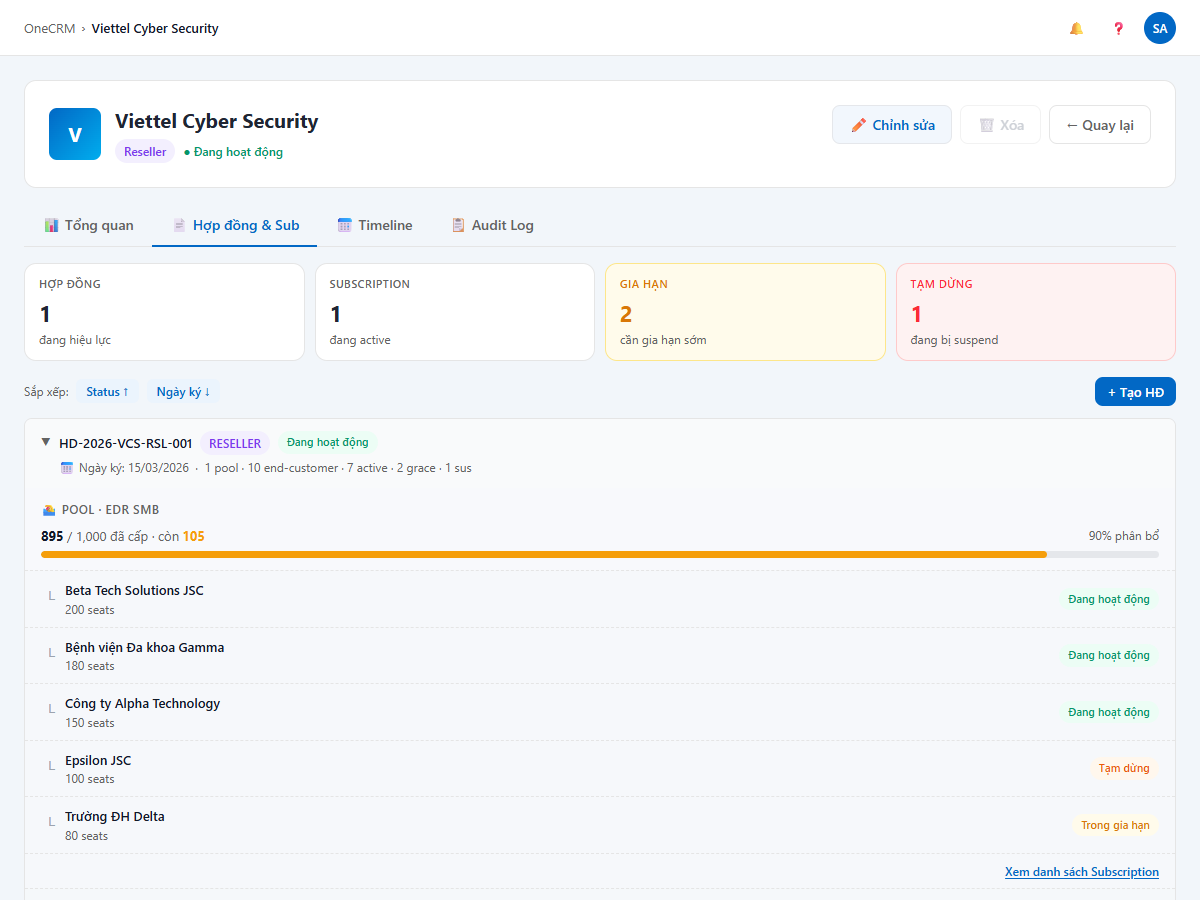
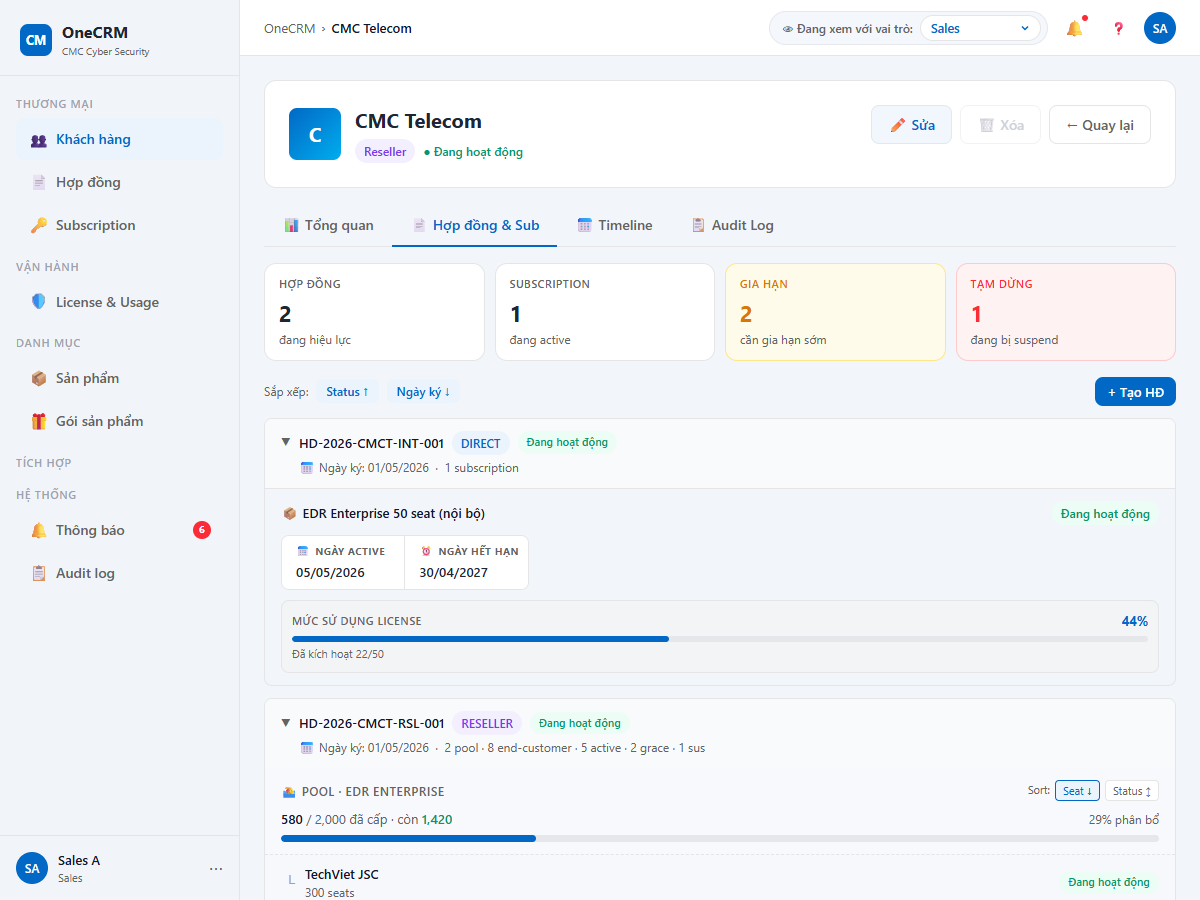
docs(demo): đồng bộ nút thao tác + chụp lại 16 ảnh giao diện
Demo v2.8.0:
- Nút Xóa bỏ highlight (đỏ đặc → viền đỏ nền trắng) ở chi tiết Subscription & thanh hành động Gói; GIỮ đỏ đặc cho nút xác nhận trong modal
- '✏ Chỉnh sửa' → '✏ Sửa' ở chi tiết Khách hàng & Hợp đồng
- Thêm chữ vào nút ở danh sách: '✏ Sửa' / '🗑 Xóa' (KH, HĐ, Subscription, Gói — gồm cả biến thể disabled)
- Thống nhất icon xóa về 🗑; bỏ hằng TRASH_ICON (SVG) không còn dùng
- Giữ icon trần: nút xóa file đính kèm, nút sửa inline ân hạn (ô hẹp, có tooltip)

Ảnh: chụp lại 16 ảnh từ v2.8.0 (UC-CUS-03 x5, UC-CON-01, UC-CON-03 x5, UC-SUB-01 x2, UC-SUB-03 hero_draft, UC-CAT-03, UC-CAT-04) — giữ đúng kích thước gốc 1200x900 / 1280x800 / 2160x1350@2x
FRS: cập nhật con trỏ 'Demo HTML' → v2.8.0 ở 5 file

Quyết định: KHÔNG chụp lại nhóm ảnh chỉ lệch menu trái (~60 ảnh M-01..M-04) — nội dung nghiệp vụ vẫn đúng
Còn treo: breadcrumb chi tiết HĐ hiển thị ID nội bộ 'con-demo-20' thay vì mã HĐ

diff --git a/docs/demo/v2.8.0_audit_notification.html b/docs/demo/v2.8.0_audit_notification.html
@@ -2291,7 +2291,7 @@ function renderTable(data,page){
   empty.classList.add('hidden');
   const tp=Math.max(1,Math.ceil(active.length/PAGE_SIZE));if(listPage>tp)listPage=tp;
   const s=(listPage-1)*PAGE_SIZE,rows=active.slice(s,s+PAGE_SIZE);
-  tbody.innerHTML=rows.map(c=>{const sa=c.subs.filter(x=>x.status==='ACTIVE').length;const delOk=canDeleteCustomer(c);const delBtn=delOk?`<button class="btn btn-ghost btn-sm" onclick="event.stopPropagation();openDelete('${c.id}')" style="color:var(--red);border-color:var(--red);">🗑</button>`:`<button class="btn btn-ghost btn-sm" disabled title="${deleteBlockedTooltip(c)}" style="color:var(--gray-400);border-color:var(--border);opacity:.5;cursor:not-allowed;">🗑</button>`;
+  tbody.innerHTML=rows.map(c=>{const sa=c.subs.filter(x=>x.status==='ACTIVE').length;const delOk=canDeleteCustomer(c);const delBtn=delOk?`<button class="btn btn-ghost btn-sm" onclick="event.stopPropagation();openDelete('${c.id}')" style="color:var(--red);border-color:var(--red);">🗑 Xóa</button>`:`<button class="btn btn-ghost btn-sm" disabled title="${deleteBlockedTooltip(c)}" style="color:var(--gray-400);border-color:var(--border);opacity:.5;cursor:not-allowed;">🗑 Xóa</button>`;
     return`<tr onclick="showCustomer360('${c.id}')"><td><div style="display:flex;align-items:center;gap:10px;"><div style="width:34px;height:34px;border-radius:8px;background:${typeColor(c.type)};display:flex;align-items:center;justify-content:center;color:white;font-weight:700;font-size:13px;flex-shrink:0;">${c.name.charAt(0)}</div><div><div class="col-name">${c.name}</div><div style="font-size:12px;color:var(--text-secondary);max-width:180px;overflow:hidden;text-overflow:ellipsis;white-space:nowrap;">${c.address||'—'}</div></div></div></td><td><span class="badge badge-${c.type.toLowerCase()}">${c.type}</span></td><td style="font-family:monospace;font-size:13px;">${c.tax||'—'}</td><td style="font-size:13px;">${c.email||'—'}</td><td>${c.subs.length>0?`<div style="font-size:13px;font-weight:500;">${c.subs.length} sub</div><div style="font-size:12px;color:var(--text-secondary);">${sa} active</div>`:'<span style="color:var(--text-secondary);font-size:13px;">Chưa có</span>'}</td><td onclick="event.stopPropagation()"><div style="display:flex;gap:4px;"><button class="btn btn-secondary btn-sm" onclick="event.stopPropagation();openEdit('${c.id}')">✏ Sửa</button>${delBtn}</div></td></tr>`;
   }).join('');
   const from=s+1,to=Math.min(s+PAGE_SIZE,active.length);document.getElementById('pageInfo').textContent=`Hiển thị ${from}–${to} / ${active.length} kết quả`;
@@ -2307,7 +2307,7 @@ function render360(c){
   const parent=c.parentId?customers.find(x=>x.id===c.parentId):null;
   const children=customers.filter(x=>x.parentId===c.id&&!x.deletedAt);
   const statusTxt=c.deletedAt?'Đã xóa':'Đang hoạt động',statusCls=c.deletedAt?'color:var(--red)':'color:#059669';
-  document.getElementById('profileHero').innerHTML=`<div class="profile-header"><div class="profile-id"><div class="profile-avatar">${c.name.charAt(0)}</div><div><div class="profile-name">${c.name}</div><div class="profile-meta"><span class="badge badge-${c.type.toLowerCase()}" style="margin-right:8px;">${c.type}</span><span style="${statusCls};font-size:12px;font-weight:500;">● ${statusTxt}</span></div></div></div><div class="profile-actions">${!c.deletedAt?`<button class="btn btn-secondary" onclick="openEdit('${c.id}')">✏ Chỉnh sửa</button>${canDeleteCustomer(c)?`<button class="btn btn-ghost" onclick="openDelete('${c.id}')" style="color:var(--red);border-color:var(--red);">🗑 Xóa</button>`:`<button class="btn btn-ghost" disabled title="${deleteBlockedTooltip(c)}" style="color:var(--gray-400);border-color:var(--border);opacity:.5;cursor:not-allowed;">🗑 Xóa</button>`}`:''}<button class="btn btn-ghost" onclick="showView('list');document.getElementById('breadcrumbCurrent').textContent='Khách hàng'">← Quay lại</button></div></div>`;
+  document.getElementById('profileHero').innerHTML=`<div class="profile-header"><div class="profile-id"><div class="profile-avatar">${c.name.charAt(0)}</div><div><div class="profile-name">${c.name}</div><div class="profile-meta"><span class="badge badge-${c.type.toLowerCase()}" style="margin-right:8px;">${c.type}</span><span style="${statusCls};font-size:12px;font-weight:500;">● ${statusTxt}</span></div></div></div><div class="profile-actions">${!c.deletedAt?`<button class="btn btn-secondary" onclick="openEdit('${c.id}')">✏ Sửa</button>${canDeleteCustomer(c)?`<button class="btn btn-ghost" onclick="openDelete('${c.id}')" style="color:var(--red);border-color:var(--red);">🗑 Xóa</button>`:`<button class="btn btn-ghost" disabled title="${deleteBlockedTooltip(c)}" style="color:var(--gray-400);border-color:var(--border);opacity:.5;cursor:not-allowed;">🗑 Xóa</button>`}`:''}<button class="btn btn-ghost" onclick="showView('list');document.getElementById('breadcrumbCurrent').textContent='Khách hàng'">← Quay lại</button></div></div>`;
   document.querySelectorAll('.tab').forEach(t=>t.classList.remove('active'));document.querySelector('.tab').classList.add('active');
   ['tab-overview','tab-contracts','tab-timeline','tab-audit'].forEach(id=>document.getElementById(id).classList.add('hidden'));
   document.getElementById('tab-overview').classList.remove('hidden');
@@ -3010,8 +3010,8 @@ function conRenderTable(){
     if(!isManager) delTitle='Chỉ Manager mới được xóa';
     else if(!canDel) delTitle='Đã có Subscription, không thể xóa';
     const delBtn=(canDel&&isManager)
-      ?`<button class="btn btn-ghost btn-sm" onclick="event.stopPropagation();conOpenDelete('${c.id}')" style="color:var(--red);border-color:var(--red)">🗑</button>`
-      :`<button class="btn btn-ghost btn-sm" disabled title="${delTitle}" style="opacity:.4;cursor:not-allowed">🗑</button>`;
+      ?`<button class="btn btn-ghost btn-sm" onclick="event.stopPropagation();conOpenDelete('${c.id}')" style="color:var(--red);border-color:var(--red)">🗑 Xóa</button>`
+      :`<button class="btn btn-ghost btn-sm" disabled title="${delTitle}" style="opacity:.4;cursor:not-allowed">🗑 Xóa</button>`;
     return`<tr onclick="conOpenDetail('${c.id}')">
       <td><div style="font-weight:600;color:var(--navy);font-size:13px;font-family:monospace">${c.code}</div><div style="font-size:11px;color:var(--text-secondary);margin-top:2px">${conFmtDate(c.createdAt)}</div></td>
       <td><div style="font-weight:500">${c.customerName}</div><div style="font-size:11px;color:var(--text-secondary)">${c.customerType}</div></td>
@@ -3020,7 +3020,7 @@ function conRenderTable(){
       <td><div style="font-size:13px;font-weight:500">${c.subs.length} sub${c.subs.length!==1?'s':''}</div><div style="font-size:11px;color:#059669">${subActiveCnt(c)} active</div></td>
       <td>${poolSummary(c)}</td>
       <td onclick="event.stopPropagation()"><div style="display:flex;gap:4px">
-        <button class="btn btn-ghost btn-sm" onclick="event.stopPropagation();conOpenEdit('${c.id}')">✏</button>
+        <button class="btn btn-ghost btn-sm" onclick="event.stopPropagation();conOpenEdit('${c.id}')">✏ Sửa</button>
         ${delBtn}
       </div></td>
     </tr>`;
@@ -3055,7 +3055,7 @@ function conOpenDetail(id){
         </div>
       </div>
       <div class="con-detail-actions">
-        <button class="btn btn-secondary btn-sm" onclick="conOpenEdit('${c.id}')">✏ Chỉnh sửa</button>
+        <button class="btn btn-secondary btn-sm" onclick="conOpenEdit('${c.id}')">✏ Sửa</button>
         ${delBtn}
         <button class="btn btn-ghost btn-sm" onclick="conShowView('list')">← Quay lại</button>
       </div>
@@ -4091,14 +4091,12 @@ function subRenderTable(data,page){
   if(!allSubs.length){tbody.innerHTML='';if(empty)empty.classList.remove('hidden');document.getElementById('subPageInfo').textContent='0 kết quả';document.getElementById('subPageBtns').innerHTML='';subUpdateSortIcons();return;}
   if(empty)empty.classList.add('hidden');
 
-  const TRASH_ICON=`<svg width="14" height="14" viewBox="0 0 24 24" fill="none" stroke="currentColor" stroke-width="2.5"><polyline points="3 6 5 6 21 6"/><path d="M19 6l-1 14H6L5 6"/><path d="M10 11v6M14 11v6"/><path d="M9 6V4h6v2"/></svg>`;
-
   tbody.innerHTML=rows.map(sub=>{
     const isDraftRow=sub.status==='DRAFT';
     const editDraftRowBtn=isDraftRow
-      ?`<button class="btn btn-ghost btn-sm" onclick="event.stopPropagation();subOpenEditSub('${sub.id}')" title="Sửa Draft" style="font-size:13px;">✏</button>`:'';
+      ?`<button class="btn btn-ghost btn-sm" onclick="event.stopPropagation();subOpenEditSub('${sub.id}')" title="Sửa Draft" style="font-size:13px;">✏ Sửa</button>`:'';
     const deleteDraftRowBtn=isDraftRow
-      ?`<button class="btn btn-ghost btn-sm" onclick="event.stopPropagation();subOpenDeleteDraft('${sub.id}')" style="color:var(--red);border-color:var(--red);gap:4px;" title="Xóa Draft">${TRASH_ICON}</button>`:'';
+      ?`<button class="btn btn-ghost btn-sm" onclick="event.stopPropagation();subOpenDeleteDraft('${sub.id}')" style="color:var(--red);border-color:var(--red);gap:4px;" title="Xóa Draft">🗑 Xóa</button>`:'';
     const beneficiary=sub.contractType==='RESELLER'&&sub.beneficiaryName
       ?`<div style="font-size:12px;color:var(--text-secondary);margin-top:2px;">→ ${sub.beneficiaryName}</div>`:''
     return`<tr onclick="subOpenDetail('${sub.id}')">
@@ -4470,7 +4468,7 @@ function subRenderHero(sub){
   const canEdit=subCanEdit(sub);
   const backBtn=`<button class="btn btn-ghost" onclick="subShowView('list');subRenderTable();document.getElementById('breadcrumbCurrent').textContent='Subscription';">← Quay lại</button>`;
   const approveBtn=isDraft?`<button class="btn btn-primary" onclick="subOpenApproveDraft('${sub.id}')">✅ Xác nhận</button>`:'';
-  const deleteDraftBtn=isDraft?`<button class="btn btn-danger" onclick="subOpenDeleteDraft('${sub.id}')">🗑 Xóa</button>`:'';
+  const deleteDraftBtn=isDraft?`<button class="btn btn-ghost" onclick="subOpenDeleteDraft('${sub.id}')" style="color:var(--red);border-color:var(--red)">🗑 Xóa</button>`:'';
   const editBtn=canEdit?`<button class="btn btn-secondary btn-sm" onclick="subOpenEditSub('${sub.id}')">✏ Sửa</button>`:'';
   const suspendBtn=canSuspend?`<button class="btn btn-ghost btn-sm" onclick="subOpenSuspend('${sub.id}')" style="color:#D97706;border-color:#D97706;">⏸ Tạm dừng</button>`:'';
   const resumeBtn=canResume?`<button class="btn btn-ghost btn-sm" onclick="subOpenResume('${sub.id}')" style="color:#059669;border-color:#059669;">▶ Khôi phục</button>`:'';
@@ -5529,10 +5527,10 @@ function pkgRowActions(p,sc){
     ? pkgActDisabled('✏ Sửa','Gói đã ngừng bán nên không sửa được')
     : `<button class="btn btn-secondary btn-sm" onclick="pkgOpenEdit('${p.id}')">✏ Sửa</button>`;
   let delBtn;
-  if(p.status==='DRAFT'&&pkgCanDelete(p)) delBtn=`<button class="btn btn-ghost btn-sm" style="color:var(--red);border-color:var(--red)" onclick="pkgConfirm('delete','${p.id}')" title="Xóa gói">🗑</button>`;
-  else if(p.status==='DRAFT') delBtn=pkgActDisabled('🗑','Chỉ người tạo gói hoặc Manager mới xóa được');
-  else if(p.status==='ACTIVE') delBtn=pkgActDisabled('🗑',"Gói đang bán nên không xóa được — muốn dừng, hãy dùng 'Ngừng bán' ở trang chi tiết");
-  else delBtn=pkgActDisabled('🗑','Gói đã ngừng bán được giữ lại để tra cứu, không xóa');
+  if(p.status==='DRAFT'&&pkgCanDelete(p)) delBtn=`<button class="btn btn-ghost btn-sm" style="color:var(--red);border-color:var(--red)" onclick="pkgConfirm('delete','${p.id}')" title="Xóa gói">🗑 Xóa</button>`;
+  else if(p.status==='DRAFT') delBtn=pkgActDisabled('🗑 Xóa','Chỉ người tạo gói hoặc Manager mới xóa được');
+  else if(p.status==='ACTIVE') delBtn=pkgActDisabled('🗑 Xóa',"Gói đang bán nên không xóa được — muốn dừng, hãy dùng 'Ngừng bán' ở trang chi tiết");
+  else delBtn=pkgActDisabled('🗑 Xóa','Gói đã ngừng bán được giữ lại để tra cứu, không xóa');
   return `<div class="pkg-actions-bar">${editBtn}${delBtn}</div>`;
 }
 
@@ -5605,7 +5603,7 @@ function pkgOpenDetail(id){
 }
 function pkgSwitchTab(t){document.querySelectorAll('#pkg-view-detail .pkg-tab').forEach(x=>x.classList.toggle('active',x.dataset.t===t));document.querySelectorAll('#pkg-view-detail .pkg-tabpane').forEach(x=>x.classList.remove('active'));document.getElementById('pkgtab-'+t).classList.add('active');}
 function pkgDetailActions(p){
-  if(p.status==='DRAFT')return `${pkgCanPublish(p)?`<button class="btn btn-secondary btn-sm" onclick="pkgConfirm('publish','${p.id}')">🚀 Xuất bản</button>`:pkgActDisabled('🚀 Xuất bản','Chỉ Sales tạo gói hoặc Manager mới được xuất bản')}<button class="btn btn-ghost btn-sm" onclick="pkgOpenEdit('${p.id}')">✏ Sửa</button>${pkgCanDelete(p)?`<button class="btn btn-danger btn-sm" onclick="pkgConfirm('delete','${p.id}')">🗑 Xóa</button>`:pkgActDisabled('🗑 Xóa','Chỉ Sales tạo gói hoặc Manager mới được xóa')}`;
+  if(p.status==='DRAFT')return `${pkgCanPublish(p)?`<button class="btn btn-secondary btn-sm" onclick="pkgConfirm('publish','${p.id}')">🚀 Xuất bản</button>`:pkgActDisabled('🚀 Xuất bản','Chỉ Sales tạo gói hoặc Manager mới được xuất bản')}<button class="btn btn-ghost btn-sm" onclick="pkgOpenEdit('${p.id}')">✏ Sửa</button>${pkgCanDelete(p)?`<button class="btn btn-ghost btn-sm" onclick="pkgConfirm('delete','${p.id}')" style="color:var(--red);border-color:var(--red)">🗑 Xóa</button>`:pkgActDisabled('🗑 Xóa','Chỉ Sales tạo gói hoặc Manager mới được xóa')}`;
   if(p.status==='ACTIVE')return `<button class="btn btn-ghost btn-sm" onclick="pkgOpenEdit('${p.id}')">✏ Sửa</button>${pkgCanRetire()?`<button class="btn btn-ghost btn-sm" style="color:var(--amber);border-color:#FDE68A" onclick="pkgConfirm('retire','${p.id}')">⏹ Ngừng bán</button>`:pkgActDisabled('⏹ Ngừng bán','Chỉ Manager mới được ngừng bán gói')}`;
   if(p.status==='RETIRED')return pkgCanPublish(p)?`<button class="btn btn-secondary btn-sm" onclick="pkgConfirm('rollback','${p.id}')" title="Tạo phiên bản nháp mới sao chép cấu hình này">↩ Rollback</button>`:pkgActDisabled('↩ Rollback','Chỉ Sales tạo gói hoặc Manager mới được rollback');
   return '';

diff --git a/docs/frs/catalog/UC-CAT-03_package_list.md b/docs/frs/catalog/UC-CAT-03_package_list.md
@@ -124,7 +124,7 @@
 └────────────────────────────────────────────────────────────────────────────┘
 ```
 
-> **Demo HTML:** [docs/demo/v2.5.0_catalog.html](../../demo/v2.5.0_catalog.html) — hàm `pkgRenderTable`, `pkgVisibleRows`, `pkgRenderPager`, `pkgRowActions`, `pkgSort`, `pkgStatusBadge`.
+> **Demo HTML:** [docs/demo/v2.8.0_audit_notification.html](../../demo/v2.8.0_audit_notification.html) — hàm `pkgRenderTable`, `pkgVisibleRows`, `pkgRenderPager`, `pkgRowActions`, `pkgSort`, `pkgStatusBadge`.
 
 **Screenshot — Danh sách Gói sản phẩm:**
 

diff --git a/docs/frs/contracts/UC-CON-03_view_contract.md b/docs/frs/contracts/UC-CON-03_view_contract.md
@@ -382,7 +382,7 @@ Search bar cố định ở đầu panel (ngoài scroll container).
 
 | Thuộc tính | Giá trị |
 |---|---|
-| **Demo HTML** | [v2.3.2_contracts.html](../../demo/v2.3.2_contracts.html) |
+| **Demo HTML** | [v2.8.0_audit_notification.html](../../demo/v2.8.0_audit_notification.html) |
 | **Figma** | _(chưa có link — cần BA bổ sung)_ |
 | **API Contract** | _(chưa có link — cần BE bổ sung)_ |
 | **UC liên quan** | UC-CON-01 (Danh sách HĐ) · UC-CON-04 (Cập nhật HĐ) · UC-CON-05 (Quản lý đính kèm) · UC-CON-06 (Xóa HĐ) · UC-CUS-03 (Customer 360°) |

diff --git a/docs/frs/subscriptions/UC-SUB-03_detail_subscription.md b/docs/frs/subscriptions/UC-SUB-03_detail_subscription.md
@@ -136,7 +136,7 @@
 
 ### 3.1 Tổng quan màn hình
 
-> **Demo HTML:** [docs/demo/v2.4.0_subscriptions.html](../../demo/v2.4.0_subscriptions.html)
+> **Demo HTML:** [docs/demo/v2.8.0_audit_notification.html](../../demo/v2.8.0_audit_notification.html)
 > **Hàm chính:** `subOpenDetail(id)`, `subRenderHero(sub)`, `subSwitchTab(el, sub, panelId)`, `subRenderInfo(sub)`, `subRenderLicense(sub)`, `subRenderTimeline(sub)`, `subRenderAuditLog(sub)`
 
 Trang Chi tiết Subscription gồm 4 khu vực xếp dọc từ trên xuống:

diff --git a/docs/frs/subscriptions/UC-SUB-01_list_subscription.md b/docs/frs/subscriptions/UC-SUB-01_list_subscription.md
@@ -99,7 +99,7 @@
 
 ### 3.1 Tổng quan màn hình
 
-> **Demo HTML:** [docs/demo/v2.4.0_subscriptions.html](../../demo/v2.4.0_subscriptions.html)
+> **Demo HTML:** [docs/demo/v2.8.0_audit_notification.html](../../demo/v2.8.0_audit_notification.html)
 
 Màn hình Danh sách Subscription gồm 3 khu vực chính:
 1. **Thanh công cụ (Toolbar):** Ô tìm kiếm, multi-select Trạng thái, dropdown Sản phẩm, dropdown Loại HĐ, toggle "Sắp hết hạn", nút "Xóa bộ lọc", nút "+ Thêm Subscription".

diff --git a/docs/frs/catalog/UC-CAT-04_package_detail.md b/docs/frs/catalog/UC-CAT-04_package_detail.md
@@ -111,7 +111,7 @@
 
 ### 3.1 Tổng quan màn hình
 
-> **Demo HTML:** [docs/demo/v2.5.0_catalog.html](../../demo/v2.5.0_catalog.html)
+> **Demo HTML:** [docs/demo/v2.8.0_audit_notification.html](../../demo/v2.8.0_audit_notification.html)
 > **Hàm chính:** `pkgOpenDetail`, `pkgSwitchTab`, `pkgDetailActions`, `pkgFeatureGridHtml`, `pkgFamilyVersions`
 
 Trang Chi tiết Gói gồm 3 khu vực xếp dọc từ trên xuống:
